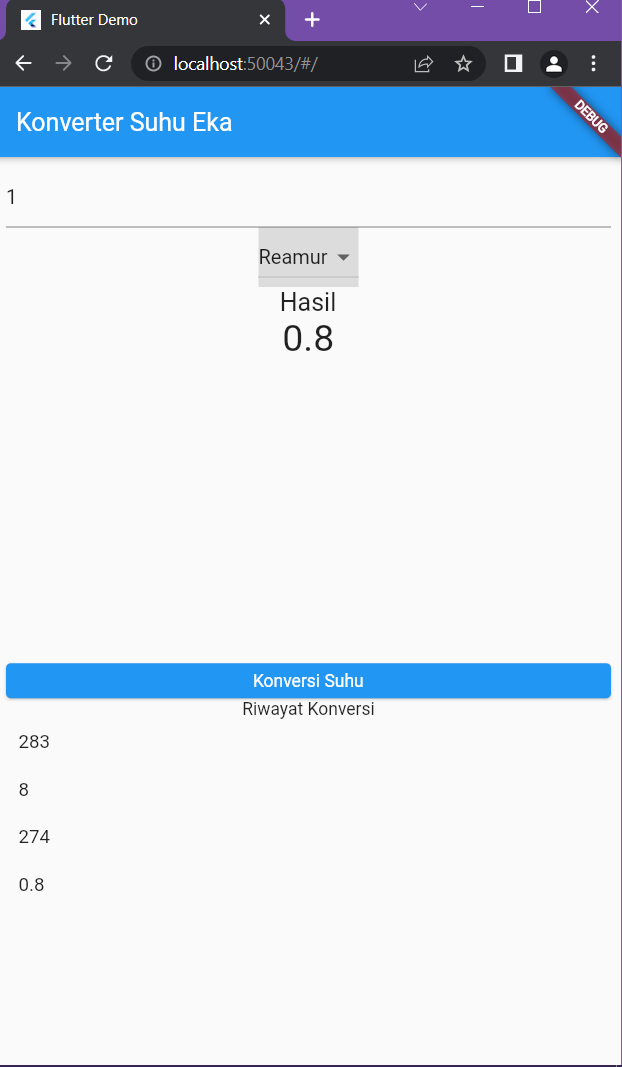
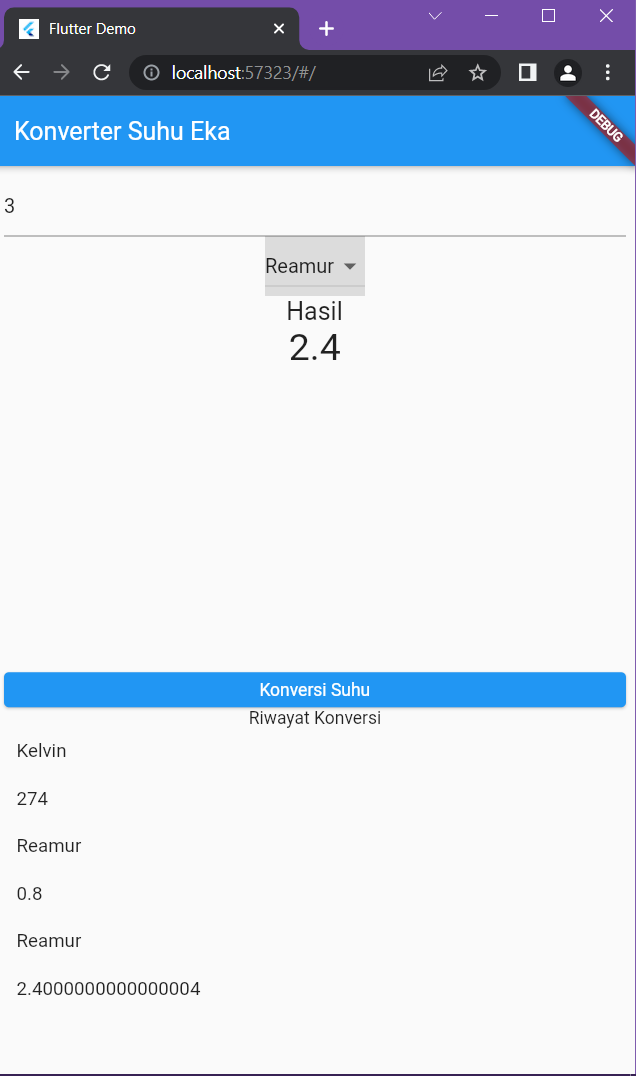
update

diff --git a/lib/widget/View.dart b/lib/widget/View.dart
@@ -36,12 +36,13 @@ class _ViewState extends State<View> {
   void konversiSuhu() {
     setState(() {
       _inputUser = double.parse(etInput.text);
-      if (_newValue == "Kelvin")
+      if (_newValue == "Kelvin") {
         _result = _inputUser + 273;
-      else
+      } else {
         _result = (4 / 5) * _inputUser;
+      }
     });
-
+    listViewItem.add(_newValue.toString());
     listViewItem.add(_result.toString());
   }
 
